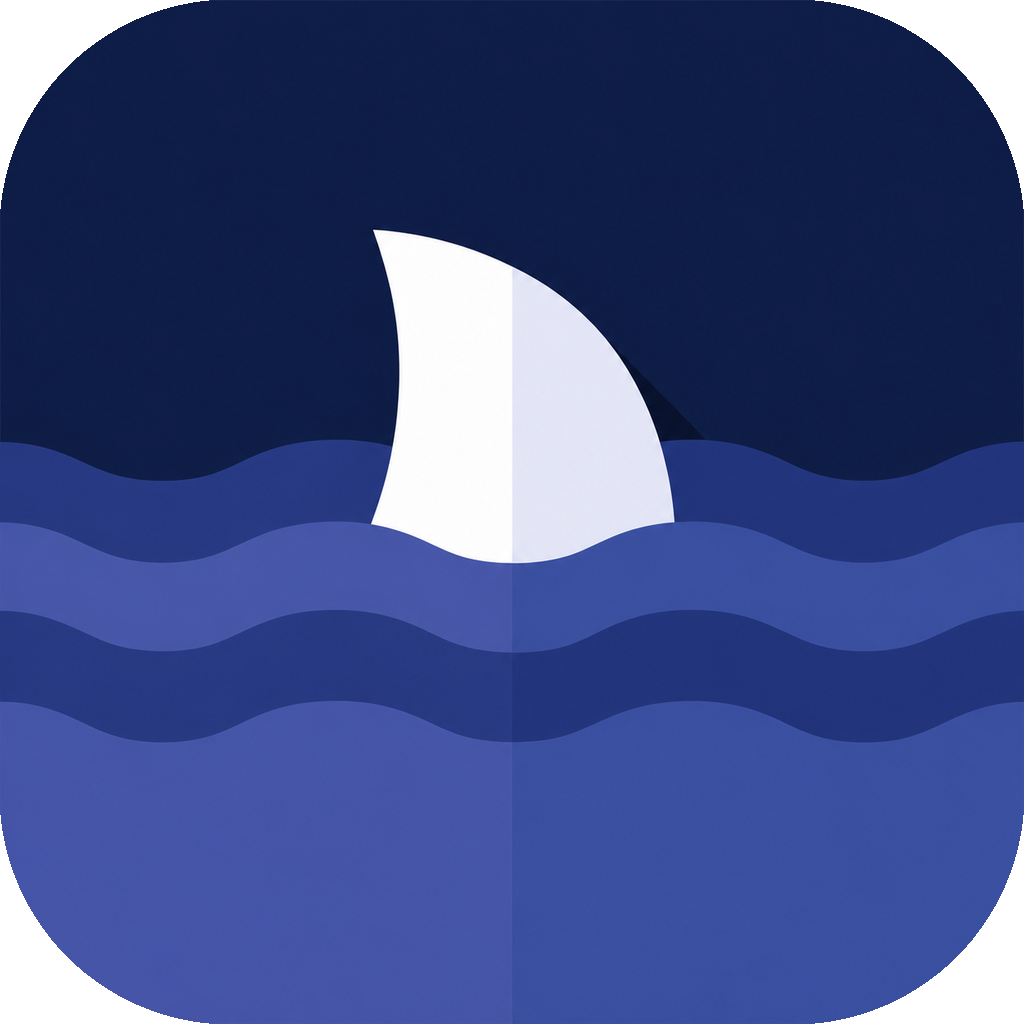
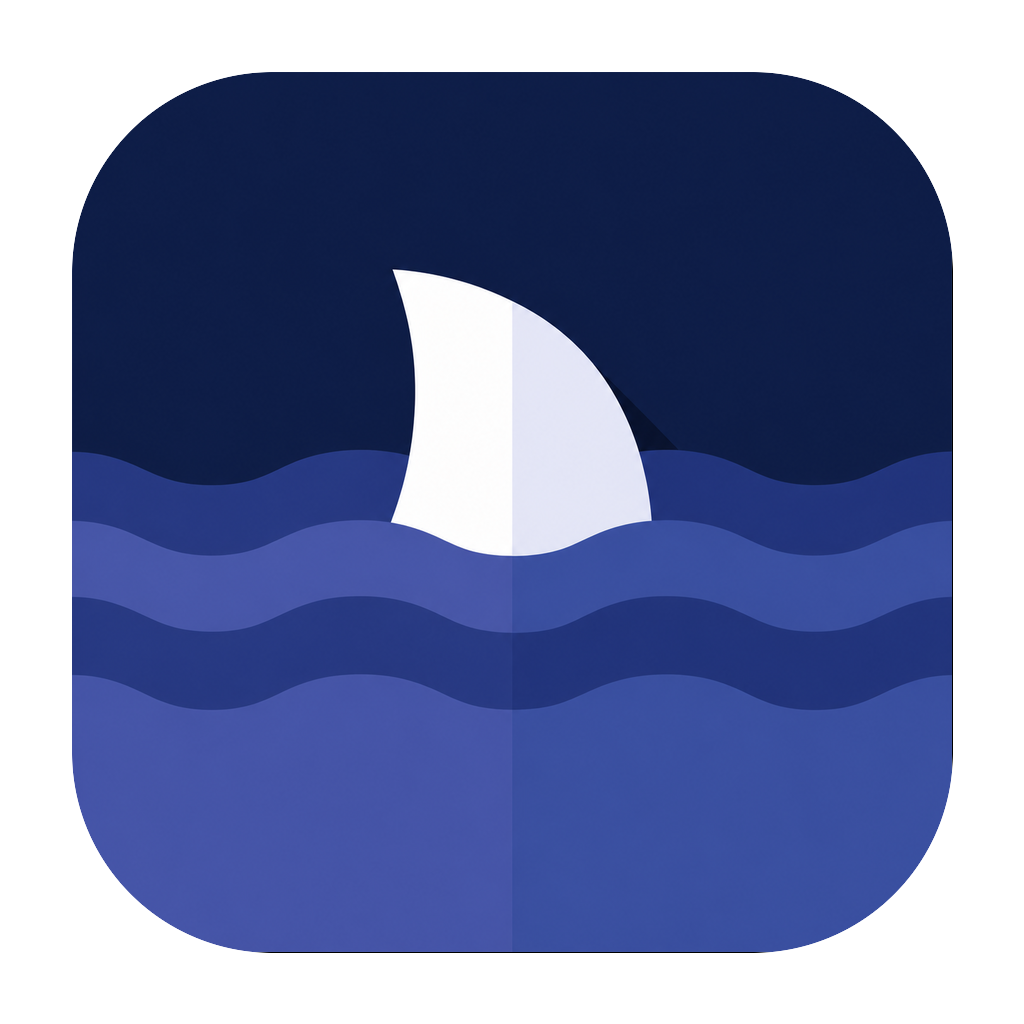
Rename classic theme to Morning

diff --git a/src/styles/app.css b/src/styles/app.css
@@ -1469,7 +1469,7 @@ body.is-resizing-columns * {
   background: linear-gradient(135deg, #101719 0 48%, #2b4448 48% 100%);
 }
 
-.theme-swatch-classic {
+.theme-swatch-morning {
   background: linear-gradient(135deg, #f4f1eb 0 48%, #101719 48% 100%);
 }
 
@@ -1975,87 +1975,87 @@ body.is-resizing-columns * {
   color: #d9e5df;
 }
 
-.app-shell[data-theme="classic"] .terminal-panel {
+.app-shell[data-theme="morning"] .terminal-panel {
   color: #d9e5df;
   background: #172022;
   border-color: #263639;
   box-shadow: 0 1px 0 rgba(32, 49, 54, 0.04);
 }
 
-.app-shell[data-theme="classic"] .terminal-layout {
+.app-shell[data-theme="morning"] .terminal-layout {
   color: #d9e5df;
 }
 
-.app-shell[data-theme="classic"] .terminal-header h3 {
+.app-shell[data-theme="morning"] .terminal-header h3 {
   color: #d9e5df;
 }
 
-.app-shell[data-theme="classic"] .terminal-header {
+.app-shell[data-theme="morning"] .terminal-header {
   border-bottom-color: #2b3f42;
 }
 
-.app-shell[data-theme="classic"] .terminal-header .path-line {
+.app-shell[data-theme="morning"] .terminal-header .path-line {
   color: #8fa09c;
 }
 
-.app-shell[data-theme="classic"] .terminal-actions .icon-button {
+.app-shell[data-theme="morning"] .terminal-actions .icon-button {
   color: #b7c7c2;
   background: #223235;
   border-color: #31474b;
 }
 
-.app-shell[data-theme="classic"] .terminal-actions .icon-button:hover,
-.app-shell[data-theme="classic"] .terminal-actions .icon-button:focus-visible {
+.app-shell[data-theme="morning"] .terminal-actions .icon-button:hover,
+.app-shell[data-theme="morning"] .terminal-actions .icon-button:focus-visible {
   color: #ffffff;
   background: #2d4448;
 }
 
-.app-shell[data-theme="classic"] .terminal-tabs {
+.app-shell[data-theme="morning"] .terminal-tabs {
   border-bottom-color: #263639;
 }
 
-.app-shell[data-theme="classic"] .terminal-tab {
+.app-shell[data-theme="morning"] .terminal-tab {
   color: #b9c9c4;
   background: #1d2a2d;
   border-color: #2c3c3f;
 }
 
-.app-shell[data-theme="classic"] .terminal-tab.is-active {
+.app-shell[data-theme="morning"] .terminal-tab.is-active {
   color: #ffffff;
   background: #2b4448;
   border-color: #4e6d73;
 }
 
-.app-shell[data-theme="classic"] .terminal-state {
+.app-shell[data-theme="morning"] .terminal-state {
   background: #6fd28c;
 }
 
-.app-shell[data-theme="classic"] .terminal-state.is-exited {
+.app-shell[data-theme="morning"] .terminal-state.is-exited {
   background: #8b9693;
 }
 
-.app-shell[data-theme="classic"] .terminal-tab-close {
+.app-shell[data-theme="morning"] .terminal-tab-close {
   color: #91a09c;
 }
 
-.app-shell[data-theme="classic"] .terminal-tab-close:hover,
-.app-shell[data-theme="classic"] .terminal-tab-close:focus-visible {
+.app-shell[data-theme="morning"] .terminal-tab-close:hover,
+.app-shell[data-theme="morning"] .terminal-tab-close:focus-visible {
   color: #ffffff;
   background: rgba(255, 255, 255, 0.12);
 }
 
-.app-shell[data-theme="classic"] .terminal-space-stack,
-.app-shell[data-theme="classic"] .xterm-surface {
+.app-shell[data-theme="morning"] .terminal-space-stack,
+.app-shell[data-theme="morning"] .xterm-surface {
   background: #101719;
 }
 
-.app-shell[data-theme="classic"] .terminal-panel .empty-state {
+.app-shell[data-theme="morning"] .terminal-panel .empty-state {
   color: #9cada8;
   background: #182426;
   border-color: #32474b;
 }
 
-.app-shell[data-theme="classic"] .terminal-panel .empty-state strong {
+.app-shell[data-theme="morning"] .terminal-panel .empty-state strong {
   color: #d9e5df;
 }
 

diff --git a/tests/self-host-workflow.test.ts b/tests/self-host-workflow.test.ts
@@ -27,6 +27,23 @@ describe("self-host workflow", () => {
     expect((await loadAppConfig(configPath)).configuredRoots).toEqual([path.resolve(rootB)]);
   });
 
+  it("migrates legacy classic appearance config to morning", async () => {
+    const configDir = await makeTempRoot("appearance-config");
+    const configPath = path.join(configDir, "config.json");
+    await fs.writeFile(
+      configPath,
+      JSON.stringify({
+        schemaVersion: 1,
+        configuredRoots: [],
+        appearanceTheme: "classic",
+        updatedAt: "2026-05-08",
+      }),
+      "utf8",
+    );
+
+    expect((await loadAppConfig(configPath)).appearanceTheme).toBe("morning");
+  });
+
   it("discovers a SharkBay-like fixture as a manifest self-host project", async () => {
     const root = await makeTempRoot("self-host-scan");
     const repo = await createSelfHostFixture(root);

diff --git a/src/renderer/App.tsx b/src/renderer/App.tsx
@@ -91,9 +91,9 @@ const settingsSections: Array<{ id: SettingsSection; label: string }> = [
 ];
 
 const appearanceThemes: Array<{ id: AppearanceTheme; label: string }> = [
+  { id: "morning", label: "Morning" },
   { id: "day", label: "Day" },
   { id: "night", label: "Night" },
-  { id: "classic", label: "Classic" },
 ];
 
 const terminalThemes: Record<AppearanceTheme, NonNullable<ConstructorParameters<typeof XTerm>[0]>["theme"]> = {
@@ -125,7 +125,7 @@ const terminalThemes: Record<AppearanceTheme, NonNullable<ConstructorParameters<
     white: "#edf2ef",
     yellow: "#d7bd78",
   },
-  classic: {
+  morning: {
     background: "#101719",
     foreground: "#d9e5df",
     cursor: "#93d7a4",
@@ -195,7 +195,7 @@ function isAppConfig(value: unknown): value is AppConfig {
 }
 
 function normalizeAppearanceTheme(value: unknown): AppearanceTheme {
-  if (value === "classic") return "classic";
+  if (value === "morning" || value === "classic") return "morning";
   return value === "night" ? "night" : "day";
 }
 
@@ -539,8 +539,8 @@ function formatRelativeTime(value: string): string {
 }
 
 function appearanceDescription(theme: AppearanceTheme): string {
+  if (theme === "morning") return "Morning icon and original dark terminal";
   if (theme === "night") return "Night icon and dark colors";
-  if (theme === "classic") return "Light workspace with original dark terminal";
   return "Day icon and colors";
 }
 

diff --git a/src/main/config.ts b/src/main/config.ts
@@ -106,12 +106,13 @@ function normalizeAppConfig(value: unknown): AppConfig {
 }
 
 function normalizeAppearanceTheme(value: unknown): AppearanceTheme {
-  if (value === "classic") return "classic";
+  if (value === "morning" || value === "classic") return "morning";
   return value === "night" ? "night" : "day";
 }
 
 function themeFromInput(input: string | AppearanceThemeInput | undefined): AppearanceTheme {
-  if (input === "day" || input === "night" || input === "classic") return input;
+  if (input === "morning" || input === "classic") return "morning";
+  if (input === "day" || input === "night") return input;
   if (typeof input === "object") return normalizeAppearanceTheme(input.theme);
   return "day";
 }

diff --git a/src/renderer/types.ts b/src/renderer/types.ts
@@ -2,7 +2,7 @@ export type GateStatus = "pass" | "pending" | "blocked" | "unknown";
 
 export type DetectionMode = "manifest" | "protocol-fallback";
 
-export type AppearanceTheme = "day" | "night" | "classic";
+export type AppearanceTheme = "day" | "night" | "morning";
 
 export type RootRecord = {
   path: string;

diff --git a/src/shared/types.ts b/src/shared/types.ts
@@ -17,7 +17,7 @@ export type UrlFields = Record<UrlField, string | null>;
 
 export type RevisionToken = string;
 
-export type AppearanceTheme = "day" | "night" | "classic";
+export type AppearanceTheme = "day" | "night" | "morning";
 
 export type AppConfig = {
   schemaVersion: 1;

diff --git a/electron/main.ts b/electron/main.ts
@@ -23,6 +23,7 @@ function getResourcePath(fileName: string): string {
 }
 
 function getAppIconPath(theme = appearanceTheme): string {
+  if (theme === "morning") return getResourcePath("shark-morning.png");
   return getResourcePath(theme === "night" ? "shark-night.png" : "shark-day.png");
 }
 

diff --git a/src/main/project-icons.ts b/src/main/project-icons.ts
@@ -8,6 +8,7 @@ import { resolveReadableRepoFile } from "./path-safety.js";
 const maxIconBytes = 1024 * 1024;
 
 const commonIconPaths = [
+  "resources/shark-morning.png",
   "resources/shark-day.png",
   "resources/shark-night.png",
   "resources/shark.png",

diff --git a/.sharkbay/tasks/t-056-morning-theme-icons/contract.md b/.sharkbay/tasks/t-056-morning-theme-icons/contract.md
@@ -1,0 +1,31 @@
+# Contract
+
+## Scope
+
+- Rename the app appearance theme formerly called `classic` to `morning` in user-facing Settings UI, renderer theme state, shared config types, CSS selectors, and Electron runtime icon selection.
+- Preserve backward compatibility for existing saved configs that contain the old `classic` value by normalizing it to `morning`.
+- Use the refreshed images in `~/Downloads/shark_morning.png`, `~/Downloads/shark_day.png`, and `~/Downloads/shark_night.png` to create bundled `resources/shark-morning.*`, `resources/shark-day.*`, and `resources/shark-night.*` app icon assets.
+- Regenerate icons as macOS-style rounded-rectangle app icons on a 1024x1024 canvas, with centered artwork and transparent outer padding so the Dock/runtime PNG no longer reads oversized next to other app icons.
+- Update project icon fallback candidates so the Morning app icon is available where relevant.
+
+## Non-Goals
+
+- Do not redesign the Morning/Day/Night color palettes beyond the rename.
+- Do not change the default selected theme unless required for compatibility.
+- Do not add a new icon-generation pipeline dependency.
+
+## Assumptions
+
+- `classic` remains a legacy config value only; user-facing and current persisted values should be `morning`.
+- The Electron development/runtime icon still uses PNG alpha directly, so the PNG resources need their own rounded-rectangle alpha and visual-size correction.
+- Apple’s official guidance is used as design input, but a small runtime-specific transparent margin is acceptable to compensate for Electron’s direct PNG icon display.
+
+## Verification
+
+- `rg -n "classic|Classic" src electron package.json` shows only explicit legacy config normalization references to the old theme value.
+- Icon file checks confirm 1024x1024 PNGs with transparent corners and opaque centered artwork for all three state icons, plus valid `.icns` files.
+- `npm run typecheck`
+- `npm test`
+- `npm run build`
+- `npm run pack`
+- `git diff --check`

diff --git a/.sharkbay/tasks/t-056-morning-theme-icons/implementation.md b/.sharkbay/tasks/t-056-morning-theme-icons/implementation.md
@@ -1,0 +1,27 @@
+# Implementation
+
+## Changes
+
+- Renamed the current theme value from `classic` to `morning` across shared types, renderer Settings UI, terminal theme selection, CSS `data-theme` selectors, and Electron runtime Dock icon selection.
+- Kept backward compatibility for old saved config values by mapping `classic` to `morning` in both main-process config normalization and renderer config normalization.
+- Added `resources/shark-morning.png` and `resources/shark-morning.icns`.
+- Regenerated `resources/shark-day.*` and `resources/shark-night.*` from the refreshed Downloads assets.
+- Added the Morning PNG to project icon fallback discovery.
+
+## Icon Geometry
+
+- Source files:
+  - `/Users/shark/Downloads/shark_morning.png`
+  - `/Users/shark/Downloads/shark_day.png`
+  - `/Users/shark/Downloads/shark_night.png`
+- Generated PNGs use a 1024x1024 transparent canvas.
+- Artwork is center-cropped into an 880x880 rounded rectangle at 72px inset, with no circular inner badge or extra circle-on-board treatment.
+- This keeps the icon visually smaller in Electron’s direct PNG Dock path while preserving macOS-style rounded-rectangle presentation.
+
+## Evidence So Far
+
+- `identify -format ... resources/shark-*.png` showed all three generated PNGs are `1024x1024 srgba`, with transparent corner pixels and opaque center/top-mid pixels.
+- `file resources/shark-*.icns` recognized all three `.icns` files as Mac OS X icon files with `ic10` entries.
+- `sips -g pixelWidth -g pixelHeight resources/shark-*.icns` reported `1024x1024` for all three `.icns` files.
+- `rg -n "classic|Classic" src electron package.json` now reports only legacy config normalization references.
+

diff --git a/.sharkbay/tasks/t-056-morning-theme-icons/verification.md b/.sharkbay/tasks/t-056-morning-theme-icons/verification.md
@@ -1,0 +1,24 @@
+# Verification
+
+## Commands
+
+| Check | Exit | Evidence |
+| --- | ---: | --- |
+| `identify -format ... resources/shark-morning.png resources/shark-day.png resources/shark-night.png` | 0 | All three PNGs reported `1024x1024 srgba`; `corner=srgba(0,0,0,0)` and center/top-mid pixels were opaque. |
+| `file resources/shark-morning.icns resources/shark-day.icns resources/shark-night.icns` | 0 | All three files were recognized as `Mac OS X icon` files with `ic10` entries. |
+| `sips -g pixelWidth -g pixelHeight resources/shark-morning.icns resources/shark-day.icns resources/shark-night.icns` | 0 | All three `.icns` files reported `pixelWidth: 1024` and `pixelHeight: 1024`. |
+| `rg -n 'data-theme="classic"|theme-swatch-classic|"classic"|Classic' src electron package.json tests` | 0 | Only legacy migration references and the regression fixture remain. |
+| `npm run typecheck` | 0 | TypeScript renderer and node projects completed with no errors. |
+| `npm test` | 0 | 13 test files passed; 78 tests passed, including the new legacy `classic` to `morning` migration test. |
+| `npm run build` | 0 | Vite production build completed; existing chunk-size warning remains. |
+| `npm run pack` | 0 | Electron Builder packaged `release/mac-arm64/SharkBay.app`; existing author/rebuild/deprecation/notarization warnings remain. |
+| `ls -lh release/mac-arm64/SharkBay.app/Contents/Resources/resources/shark-*.png` | 0 | Packaged app contains `shark-morning.png`, `shark-day.png`, and `shark-night.png`. |
+| `git diff --check` | 0 | No whitespace errors. |
+
+## Done Criteria Mapping
+
+- Rename Classic to Morning: satisfied by shared/renderer type updates, Settings label update, CSS selector rename, and legacy normalization test.
+- Use new Downloads icons: satisfied by regenerated Morning/Day/Night PNG and ICNS resources from the refreshed source files.
+- Reduce oversized Dock icon appearance: satisfied by 1024 canvas with 880px centered rounded-rectangle visual content and transparent outer padding.
+- Keep package viable: satisfied by build, pack, and packaged resource checks.
+

diff --git a/.sharkbay/tasks/t-056-morning-theme-icons/status.md b/.sharkbay/tasks/t-056-morning-theme-icons/status.md
@@ -1,0 +1,21 @@
+# t-056-morning-theme-icons
+
+- Title: Rename Classic to Morning and regenerate app icons
+- Status: done
+- Phase: done
+- Priority: 1
+- Depends on: none
+- Opened: 2026-05-08T14:43:39+08:00
+- Source: User asked to rename Classic to Morning, use new `~/Downloads/shark_morning.png`, `shark_day.png`, and `shark_night.png`, and remake the app icons against Apple macOS icon guidance because the current icon reads too large.
+
+## Current State
+
+Completed. Classic is now Morning in the user-facing theme model, legacy `classic` config values migrate to `morning`, and Morning/Day/Night icons have been regenerated and verified.
+
+## Verification
+
+See `.sharkbay/tasks/t-056-morning-theme-icons/verification.md`.
+
+## Next Action
+
+Idle after checkpoint commit.